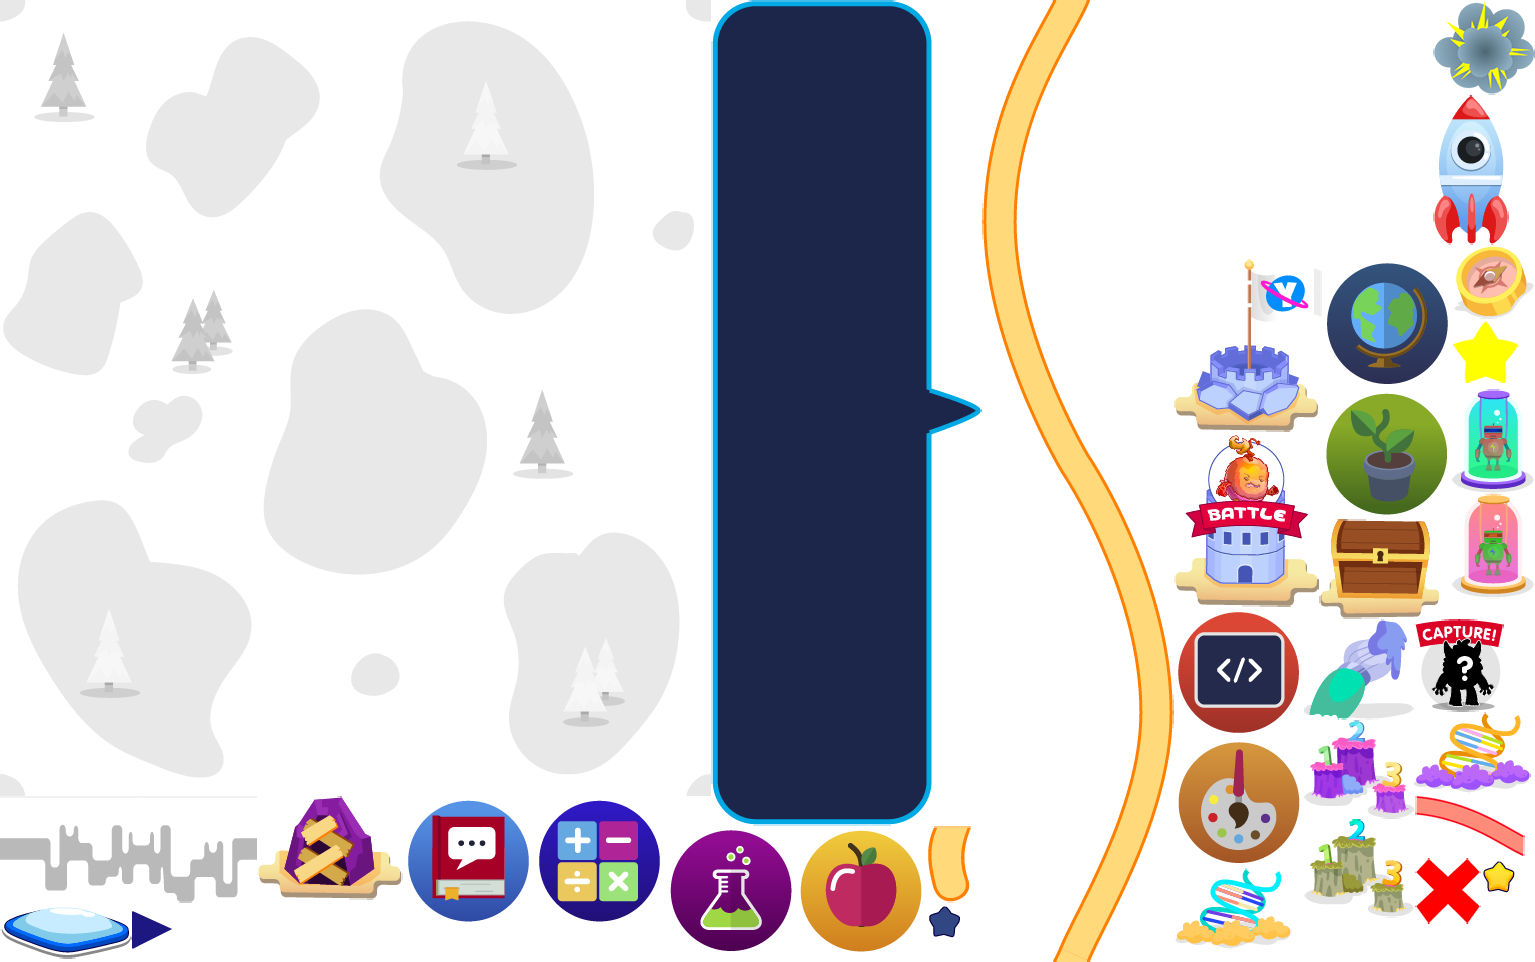
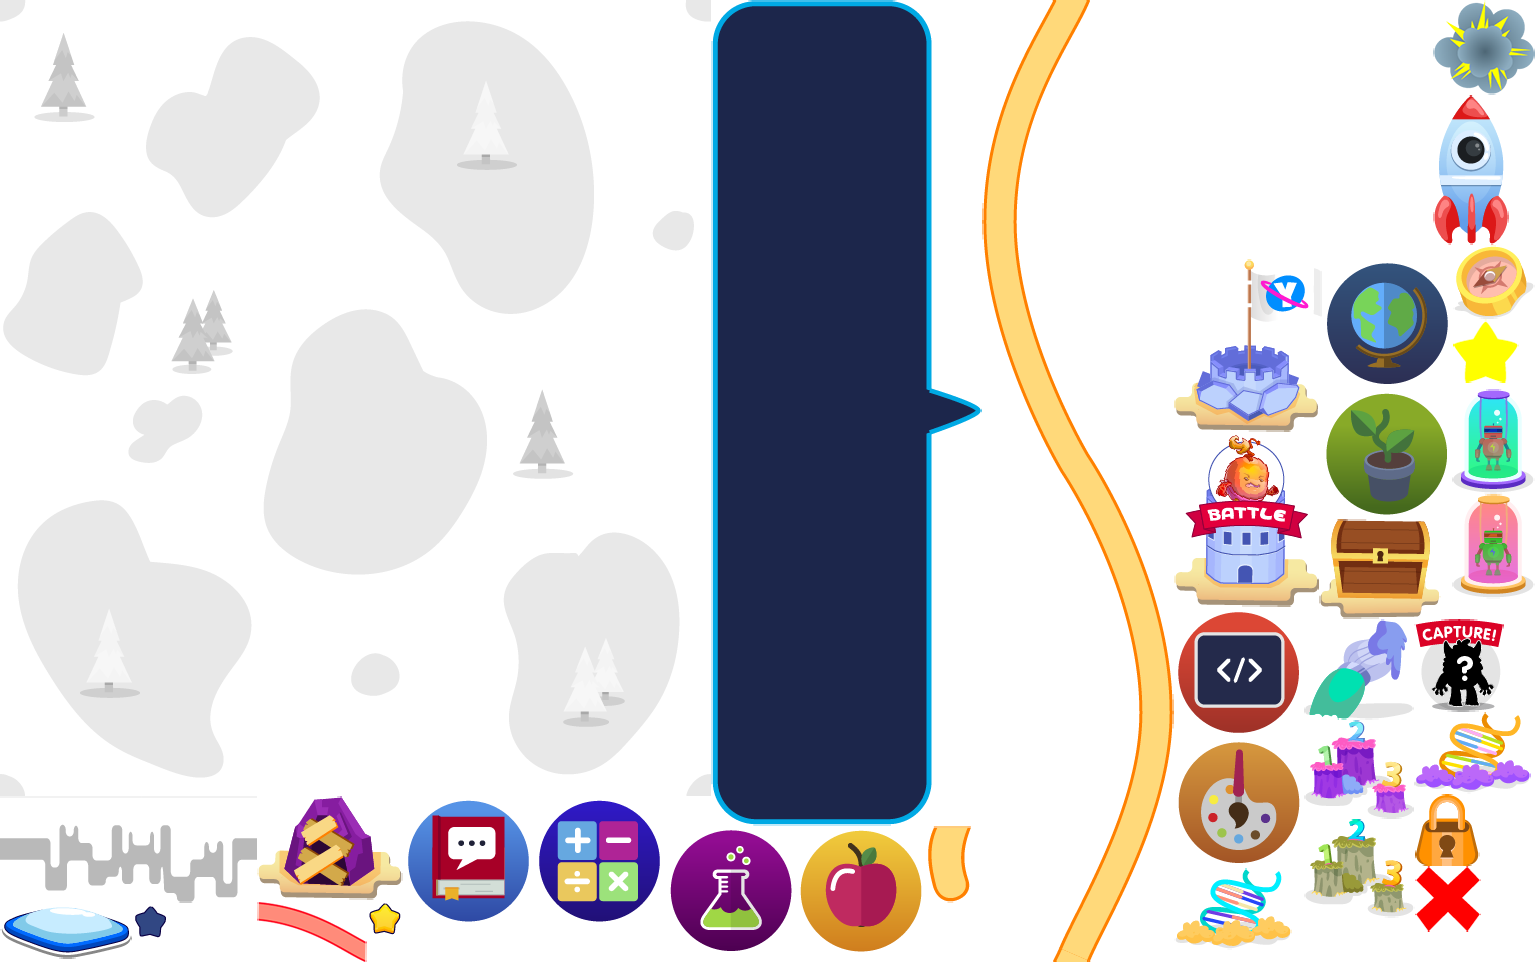
cambio garbageMole y mapa epic

diff --git a/nonrefactored/garbageMole/garbageMole/js/scenes/mole.js b/nonrefactored/garbageMole/garbageMole/js/scenes/mole.js
@@ -86,6 +86,7 @@ var mole = function(){
     var trashKind 
     var trashBoard
     var circle
+	var swipe
    
     var directions = {up: 0, down: 1, right: 2, left: 3}
     var organic = ['apple','apple2','banana','bone','burger','fish','lobester','pear','steak','tomato']
@@ -855,7 +856,7 @@ var mole = function(){
     }
 
     function updateDirection() {
-        if (cursors.right.isDown && moleDirection != directions.left) {
+        /*if (cursors.right.isDown && moleDirection != directions.left) {
             moleDirection = directions.right
         }
         if (cursors.left.isDown && moleDirection != directions.right) {
@@ -866,27 +867,27 @@ var mole = function(){
         }
         if (cursors.down.isDown && moleDirection != directions.up) {
             moleDirection = directions.down
-        }
+        }*/
         
-       /* var direction = this.swipe.check();
+       	var direction = swipe.check();
         
         if(direction !== null)
         {
             switch(direction.direction) {
-                case this.swipe.DIRECTION_UP:
+                case swipe.DIRECTION_UP:
                     moleDirection = directions.up
                     break;
-                case this.swipe.DIRECTION_DOWN:
+                case swipe.DIRECTION_DOWN:
                     moleDirection = directions.down
                     break;
-                case this.swipe.DIRECTION_LEFT:
+                case swipe.DIRECTION_LEFT:
                     moleDirection = directions.left
                     break;
-                case this.swipe.DIRECTION_RIGHT:
+                case swipe.DIRECTION_RIGHT:
                     moleDirection = directions.right
                     break;
             }
-        }*/
+        }
     }
 
     function movePlayer() {
@@ -945,7 +946,7 @@ var mole = function(){
             
 			sceneGroup = game.add.group()
             yogomeGames.mixpanelCall("enterGame",gameIndex)
-            this.swipe = new Swipe(this.game)
+            swipe = new Swipe(this.game)
 			
 			createBackground()
 			addParticles()

diff --git a/nonrefactored/garbageMole/garbageMole/index.html b/nonrefactored/garbageMole/garbageMole/index.html
@@ -31,9 +31,9 @@
 
 	<!--Helpers-->
 	<script src="../../shared/minigames/js/helpers/buttons.js"></script>
-	<script src="../../shared/minigames/js/helpers/swipe.js"></script>
     <script src="../../shared/minigames/js/helpers/yogomeGames.js"></script>
     <script src="../../shared/minigames/js/helpers/orientation.js"></script>
+    <script src="../../shared/minigames/js/helpers/swipe.js"></script>
 	<script src="../../shared/minigames/js/helpers/facebook.js"></script>
 	<script src="../../shared/minigames/js/helpers/mixpanel.js"></script>
 	<script src="../../shared/minigames/js/helpers/sound.js"></script>

diff --git a/nonrefactored/msNomNom/msNomNom/js/scenes/ms.js b/nonrefactored/msNomNom/msNomNom/js/scenes/ms.js
@@ -732,6 +732,7 @@ var ms = function(){
 		}
 		
 		var direction = this.swipe.check();
+		console.log(this.swipe)
 		
 		if (direction!==null) {
 		
